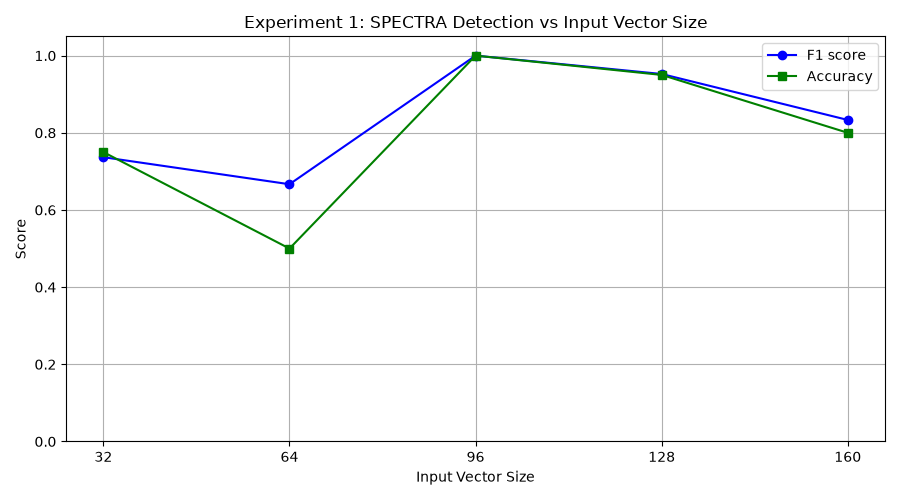
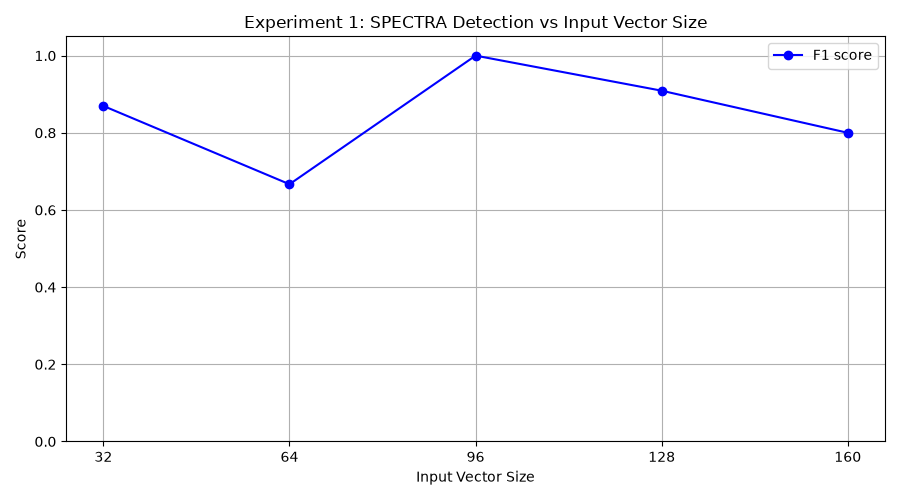
Updated Experiment

diff --git a/AccuracyExperiment/Experiment1.py b/AccuracyExperiment/Experiment1.py
@@ -22,7 +22,7 @@ Detection
 ---------
   The trained AT is applied to each scientist run's snapshot sequence.
   If the fraction of flagged timesteps > --flag-frac, the run is predicted
-  malicious.  TP / FP / TN / FN, precision, recall, F1, and accuracy are
+  malicious.  TP / FP / TN / FN, precision, recall, and F1 are
   computed per input-vector-size.
 
 Sweep
@@ -144,9 +144,11 @@ def run_experiment(
     X_all, y_all = load_full_dataset(dataset_path, target_col)
     n_miner = int(len(X_all) * train_frac)
     X_miner, y_miner = X_all[:n_miner], y_all[:n_miner]
-    X_sci,   y_sci   = X_all[n_miner:], y_all[n_miner:]
-    print(f"Dataset: {len(X_all)} rows  →  miner {len(X_miner)} ({train_frac:.0%}), "
-          f"scientist {len(X_sci)} ({1-train_frac:.0%})")
+    X_sci,   y_sci   = X_all, y_all
+    #X_sci,   y_sci   = X_all[n_miner:], y_all[n_miner:]
+
+    print(f"Dataset: {len(X_all)} rows  →  miner {len(X_miner)}, "
+          f"scientist {len(X_sci)}")
 
     all_results = []
 
@@ -249,25 +251,23 @@ def run_experiment(
             recall    = tp / (tp + fn) if (tp + fn) > 0 else 0.0
             f1        = (2 * precision * recall / (precision + recall)
                          if (precision + recall) > 0 else 0.0)
-            accuracy  = (tp + tn) / len(valid) if valid else 0.0
 
             print(f"\n  TP={tp}  FP={fp}  TN={tn}  FN={fn}")
             print(f"  Precision={precision:.3f}  Recall={recall:.3f}  "
-                  f"F1={f1:.3f}  Accuracy={accuracy:.3f}")
+                  f"F1={f1:.3f}")
 
             all_results.append({
                 "input_vec_size": vec_size,
                 "tp": tp, "fp": fp, "tn": tn, "fn": fn,
                 "precision": round(precision, 4),
                 "recall":    round(recall,    4),
-                "f1":        round(f1,        4),
-                "accuracy":  round(accuracy,  4),
+                "f1":        round(f1,        4)
             })
 
     # ── Outputs ──────────────────────────────────────────────────────────────
     if out_csv and all_results:
         fields = ["input_vec_size", "tp", "fp", "tn", "fn",
-                  "precision", "recall", "f1", "accuracy"]
+                  "precision", "recall", "f1"]
         with open(out_csv, "w", newline="") as f:
             writer = csv.DictWriter(f, fieldnames=fields)
             writer.writeheader()
@@ -277,11 +277,9 @@ def run_experiment(
     if out_png and all_results:
         sizes = [r["input_vec_size"] for r in all_results]
         f1s   = [r["f1"]       for r in all_results]
-        accs  = [r["accuracy"] for r in all_results]
 
         fig, ax = plt.subplots(figsize=(9, 5))
         ax.plot(sizes, f1s,  "b-o", label="F1 score")
-        ax.plot(sizes, accs, "g-s", label="Accuracy")
         ax.set_xlabel("Input Vector Size")
         ax.set_ylabel("Score")
         ax.set_title("Experiment 1: SPECTRA Detection vs Input Vector Size")
